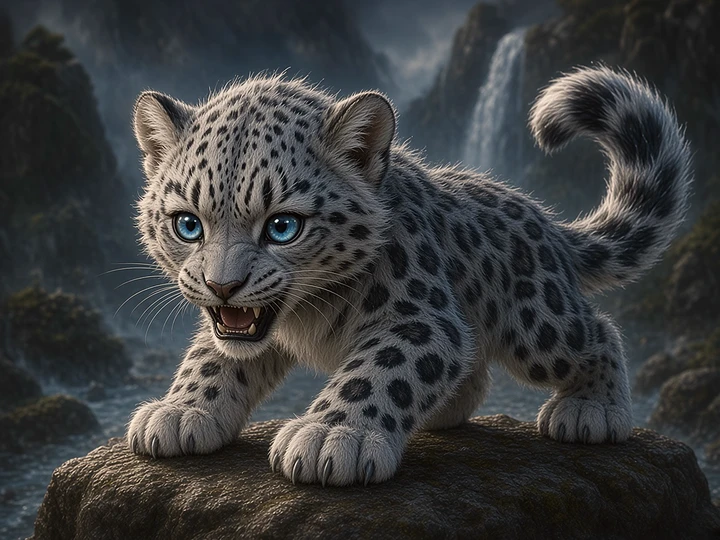
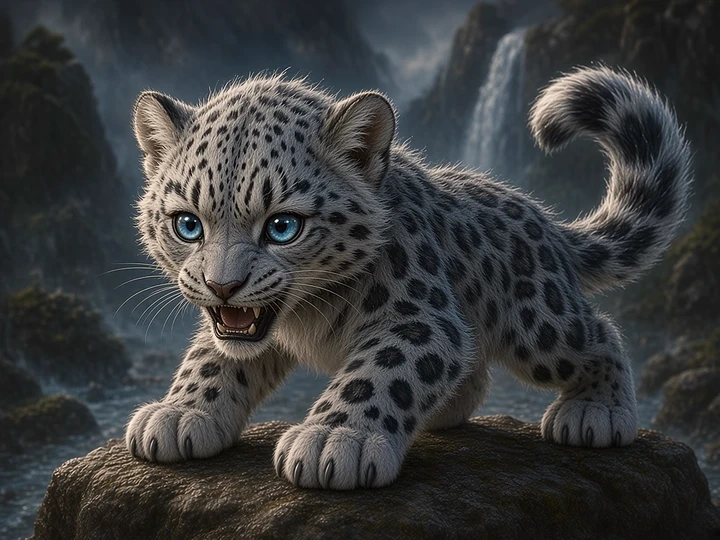
art: 首頁雪豹腳掌與小狗尾巴修正（使用者核准 AI 例外）
覆蓋 public/beast-game/front/young-07.v2.webp（SHA256 3a52d716c24d…）與 young-16.v2.webp（SHA256 f1d9cd914205…）。
同步更新這兩張正面圖的快取版本：ART_V2 front、卡資料 front ?v=、首頁 img 與九宮格 CSS background。未改縮圖、中圖或 ART_V2_POS。

Changed region(s): [[0.1222, 0.6519, 0.5806, 0.9778], [0.6722, 0.6519, 0.9167, 0.8296]]

diff --git a/app/page.tsx b/app/page.tsx
@@ -3221,8 +3221,8 @@ export default function HomePage() {
           {/* 2026-09-25 star-beast i18n toggle: card extracted to a client component with 中｜EN switch; href="/star-beasts" */}
           <StarBeastHomeCard />
           <Link href="/3D" className={`home-feature-launch home-feature-tier-explore order-[15] w-full relative group overflow-hidden rounded-3xl border border-violet-300/30 bg-[radial-gradient(circle_at_82%_22%,rgba(167,139,250,0.22),transparent_28%),linear-gradient(110deg,rgba(12,18,42,0.98),rgba(45,28,74,0.62),rgba(12,18,42,0.98))] p-6 text-left shadow-[0_0_30px_rgba(167,139,250,0.13)] transition-[border-color,box-shadow,transform] duration-500 hover:border-violet-200/70 hover:shadow-[0_0_50px_rgba(167,139,250,0.25)] active:scale-[0.99] flex items-center justify-between gap-6 flex-wrap ${taijiArtwork.entry}`}>
-            <div className={taijiArtwork.scene} aria-hidden="true"><img src="/beast-game/front/young-07.v2.webp" alt="" draggable={false} /></div>
-            <img className={taijiArtwork.paws} src="/beast-game/front/young-07.v2.webp" alt="" aria-hidden="true" draggable={false} />
+            <div className={taijiArtwork.scene} aria-hidden="true"><img src="/beast-game/front/young-07.v2.webp?v=3a52d716c24d" alt="" draggable={false} /></div>
+            <img className={taijiArtwork.paws} src="/beast-game/front/young-07.v2.webp?v=3a52d716c24d" alt="" aria-hidden="true" draggable={false} />
             <h2 className={taijiArtwork.title}><HomeTranslatedText text="立體太極模型" /></h2>
             <p className="sr-only"><HomeTranslatedText text="空心太極包方形核心，方圓緊貼，進入四維。" /></p>
             <HomeTrustEvidence items={["免費體驗", "可旋轉", "非付費牆"]} />
@@ -3236,7 +3236,7 @@ export default function HomePage() {
             className="home-feature-launch home-feature-amber home-feature-tier-explore order-[16] w-full relative group overflow-hidden rounded-3xl border border-amber-500/30 bg-gradient-to-r from-slate-950 via-amber-950/20 to-slate-950 p-6 text-left shadow-[0_0_30px_rgba(245,158,11,0.15)] transition-[border-color,box-shadow,transform] duration-500 hover:border-amber-400 hover:shadow-[0_0_50px_rgba(245,158,11,0.3)] active:scale-[0.99] flex items-center justify-between gap-6 flex-wrap"
           >
             <div className={nineGridArtwork.scenery} aria-hidden="true" />
-            <span className={nineGridArtwork.foreground} aria-hidden="true"><img className={nineGridArtwork.artwork} src="/beast-game/front/young-16.v2.webp" alt="" aria-hidden="true" draggable={false} /></span>
+            <span className={nineGridArtwork.foreground} aria-hidden="true"><img className={nineGridArtwork.artwork} src="/beast-game/front/young-16.v2.webp?v=f1d9cd914205" alt="" aria-hidden="true" draggable={false} /></span>
             <span className={nineGridArtwork.title}><HomeTranslatedText text="九宮格靈動數字" /></span>
             {/* 炫光掃過特效 */}
             <div className="absolute inset-0 bg-gradient-to-r from-transparent via-amber-500/10 to-transparent -translate-x-full group-hover:animate-[shimmer_2s_infinite] pointer-events-none" />

diff --git a/components/battlefield/BeastCardTile.tsx b/components/battlefield/BeastCardTile.tsx
@@ -76,7 +76,7 @@ const ART_V2: Record<string, { thumb: string; mid: string; front: string }> = {
   beast_y07: {
     thumb: '/beast-game/thumb/young-07.v2.webp?v=0cae45d61297',
     mid: '/beast-game/thumb/young-07.v2-480.webp?v=0cddca1c1ac1',
-    front: '/beast-game/front/young-07.v2.webp?v=c131a14dd20e',
+    front: '/beast-game/front/young-07.v2.webp?v=3a52d716c24d',
   },
   beast_y08: {
     thumb: '/beast-game/thumb/young-08.v2.webp?v=e18b975426d1',
@@ -121,7 +121,7 @@ const ART_V2: Record<string, { thumb: string; mid: string; front: string }> = {
   beast_y16: {
     thumb: '/beast-game/thumb/young-16.v2.webp?v=4925bd57fda0',
     mid: '/beast-game/thumb/young-16.v2-480.webp?v=700960d5c737',
-    front: '/beast-game/front/young-16.v2.webp?v=35cecb2471a9',
+    front: '/beast-game/front/young-16.v2.webp?v=f1d9cd914205',
   },
   beast_y17: {
     thumb: '/beast-game/thumb/young-17.v2.webp?v=7e36ea24eed3',

diff --git a/components/NineGridHomeArtwork.module.css b/components/NineGridHomeArtwork.module.css
@@ -50,7 +50,7 @@
  content:'';display:block;position:absolute;top:68px;left:50%;
  height:calc(100% - 112px);aspect-ratio:4 / 3;max-width:calc(100% - 32px);
  transform:translateX(-50%);
- background:url('/beast-game/front/young-16.v2.webp') center / contain no-repeat;
+ background:url('/beast-game/front/young-16.v2.webp?v=f1d9cd914205') center / contain no-repeat;
  mask-image:radial-gradient(ellipse 65% 65% at 50% 50%,#000 45%,rgba(0,0,0,.85) 62%,rgba(0,0,0,.3) 82%,transparent 100%);
  pointer-events:none;
 }

diff --git a/cards/beasts/lou-jin-gou-young.ts b/cards/beasts/lou-jin-gou-young.ts
@@ -23,7 +23,7 @@ const card: BeastCard = {
   passive: ['skill_206'],
   art: {
     thumbnail: '/beast-game/thumb/young-16.v2.webp?v=5',
-    front: '/beast-game/front/young-16.v2.webp?v=5',
+    front: '/beast-game/front/young-16.v2.webp?v=6',
     high: '/beast-game/front/young-16.v2.webp',
     back: '/beast-game/card-back.webp',
   },

diff --git a/cards/beasts/ji-shui-bao-young.ts b/cards/beasts/ji-shui-bao-young.ts
@@ -23,7 +23,7 @@ const card: BeastCard = {
   passive: [],
   art: {
     thumbnail: '/beast-game/thumb/young-07.v2.webp?v=6',
-    front: '/beast-game/front/young-07.v2.webp?v=6',
+    front: '/beast-game/front/young-07.v2.webp?v=7',
     high: '/beast-game/front/young-07.v2.webp',
     back: '/beast-game/card-back.webp',
   },
